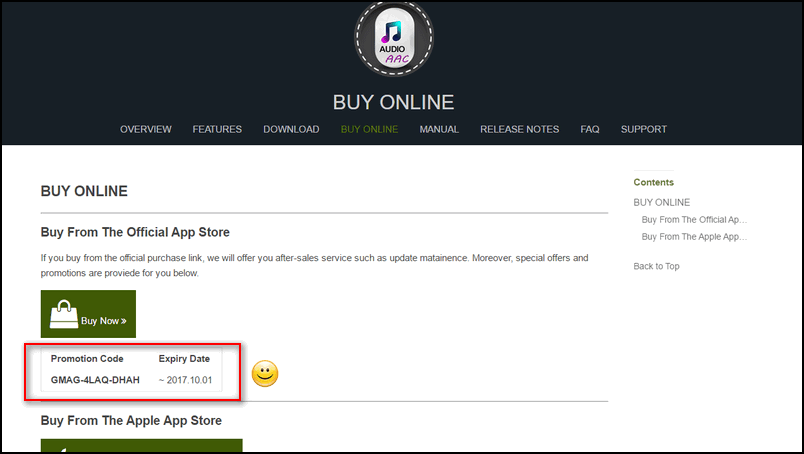
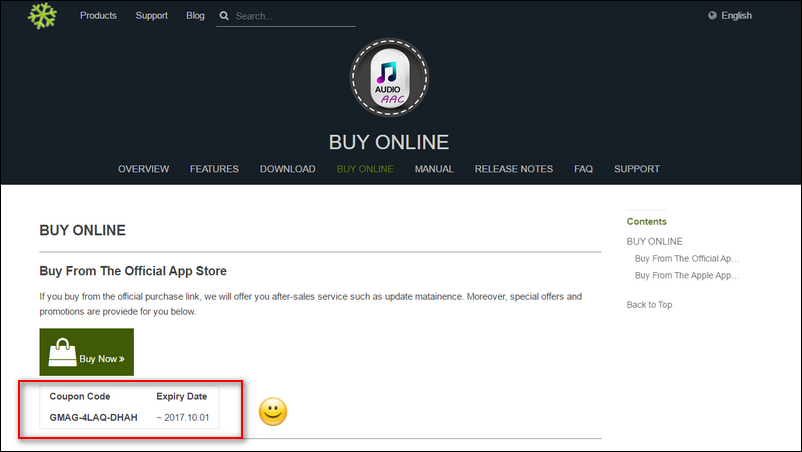
wma pictures

diff --git a/source/products/store/trytowma/docs.md b/source/products/store/trytowma/docs.md
@@ -39,7 +39,7 @@ There are three kind of install package in DOWNLOAD page, you need to choose one
 
 **The trial version** for users is also available in [DOWNLOAD](./download.html), and combined with the install package. You can click and download one of the files. when you open and run the software, a little window will pop up. If you choose to try out, click "continue" button, you can freely try this software three times. If you wanna to buy our product, then click "Buy" button to enter the online store. 
 
-![](.\images\screens\trial version_640x400.png) 
+![](./images/screens/trail%20version1_800x500.png) 
 
 
 If you encounter any problems during or after installing TryToWMA please refer to [Frequently Asked Questions (FAQ)](./faq.html) first.
@@ -49,18 +49,18 @@ If you encounter any problems during or after installing TryToWMA please refer t
 ### **User Guide**:
 This section describes daily use guide to the TryToWMA client. It instructs you how to use the software in details after the installation finished.
  
-1. First of all, you need to open the file and run it, the window of TryToMP3 will pop up in the desktop. As what have mentioned before, if you want to try out this software first, click "continue" to use the trial version, you have three chances to try it freely. If you satisfied with our product,and decided to pay for it, please click the "Buy" button or directly come to our home page and enter the [BUY ONLINE](./buy.html). 
+1. First of all, you need to open the file and run it, the window of TryToWMA will pop up in the desktop. As what have mentioned before, if you want to try out this software first, click "continue" to use the trial version, you have three chances to try it freely. If you satisfied with our product,and decided to pay for it, please click the "Buy" button or directly come to our home page and enter the [BUY ONLINE](./buy.html). 
 <br>
 2. Secondly, in the BUY ONLINE page, there are two optional purchase link for you, that is, you can choose to buy from our **official App store** or the Apple App store. The good news is, we offer a **coupon code** below the purchase link for anyone who willing to buy from the Gmagon official App store. 
 <br>
-![](.\images\screens\coupon_640x374.png)
+![](./images/screens/trytowma_buy%20online_800x450.png)
 <br>
 3. Thirdly, in the Gmagon Online Store, you need to put the product in your cart, fill the Billing Information, and choose your payment information.
 <br>
-![](.\images\screens\coupon code_640x374.png) 
+![](./images/screens/trytowma_online%20store_800x450.png)
 <br>
-4. Finally, after you finished the purchasing process of the product, you can get the **active code** from us. When you run the software, a registered window will pop up, then you need to copy and paste the active code in the **license key** text box, then click "register" button to finish the License Activation. Now, you can feel free to use TryToMP3 in your computer anytime and everywhere.
+4. Finally, after you finished the purchasing process of the product, you can get the **active code** from us. When you run the software, a registered window will pop up, then you need to copy and paste the active code in the **license key** text box, then click "register" button to finish the License Activation. Now, you can feel free to use TryToWMA in your computer anytime and everywhere.
 <br>
-![](.\images\screens\license key_640x374.png)
+![](./images/screens/trytowma_license%20key_800x450.png)
 <br>
-Hope the TryToMP3 will help you enjoy a high-quality listening experience and make your life more convenient than ever. We'd like to receive and answer any question from you, if you are willing to communicate with us in<a href="https://gitter.im/Gmagon/support" target="_blank"> <strong>Support Center</strong> </a> and join our community. We will strive to provide the best services we can offer with our customers. 
+Hope the TryToWMA will help you enjoy a high-quality listening experience and make your life more convenient than ever. We'd like to receive and answer any question from you, if you are willing to communicate with us in<a href="https://gitter.im/Gmagon/support" target="_blank"> <strong>Support Center</strong> </a> and join our community. We will strive to provide the best services we can offer with our customers. 

diff --git a/source/products/store/trytowma/index.md b/source/products/store/trytowma/index.md
@@ -16,25 +16,23 @@ Learn more [about TryToWMA](./features.html).
 <a href="./download.html"><span class="cls-banner-start-link" style="border: 2px solid; border-radius: 25px;"><i class="fa fa-download fa-3x" aria-hidden="true"></i> <span> Download </span></span></a>
 <br>
 
-<!-- ![](./images/screens/s2_953x525.png) -->
-![](./images/screens/s2_664x374_op.png)
+![](./images/screens/trytowma_screen_1_1440x900.png)
 
 
-
+<br>
 ## USE CASES: BUILT FOR YOU
-TryToWMA delivers high-quality WMA format and is designed for every kind of Mac users. WMA fitS Mac devices and most popular media players. Users for MP3-players are able to use WMA to save much more room than MP3 format with similar audio quality. Apple users also can use WMA format freely in their iTunes. Other users are able to convert other formats to WMA file so as to save much room while maintaining unchanged audio quality. 
+TryToWMA delivers high-quality WMA format and is designed for every kind of Mac users. WMA fits Mac devices and most popular media players. Users for MP3-players are able to use WMA to save much more room than MP3 format with similar audio quality. Apple users also can use WMA format freely in their iTunes. Other users are able to convert other formats to WMA file so as to save much room while maintaining unchanged audio quality. 
 
-1. **MP3-player Users**: Most users for tiny, portable MP3-players are likely to face a dilemma that the storage space is so limited that you cannot store enough audio files as you wish. As a conceived competitor to the popular MP3, WMA enjoys its superiority. For WMA could produce files that were half the size of equivalent-quality MP3 files, it is also praised as "near CD-quality" audio. In short, WMA was intended to address perceived deficiencies in the MP3 standard. So users can use smaller WMA file to replace MP3 file.
+1. **MP3-player Users**: Most users for tiny, portable MP3-players are likely to face a dilemma that the storage space is so limited that you cannot store enough audio files as you wish. As a conceived competitor to the popular MP3, WMA enjoys its superiority. For WMA could produce files that were half the size of equivalent-quality MP3 files, it is also praised as "near CD-quality" audio. In short, WMA was intended to address perceived deficiencies in the MP3 standard. So users can use smaller WMA files to replace MP3 files.
 <br>
-![](./images/screens/Listening-to-music.small_-664x374.jpg)
+![](./images/screens/trytowma_mp3_850x480.jpg)
 <br>
-
 1. **Apple Users**: Though WMA is a proprietary technology that is designed by Microsoft and forms part of the Windows Media framework, it can also be used in Apple devices. Because iTunes of Apple has been supported WMA for a long time, and makes it as popular as MP3 format. So Apple devices including iPhone, iPad, iPod, and Macbook all support WMA file and Apple users can feel free to convert other formats to WMA format.
 <br>
-![](./images/screens/movie_664x374.png)
+![](./images/screens/trytowma_apple_850x480.jpg)
 <br>
 
 1. **Network Streaming and Mobile Devices**: Audio files that are produced by WMA account for half the size of MP3 at the premise of equivalent audio quality. It means that the number of stored audio files doubled with the same storage space, and it will not damage the audio quality. Therefore, WMA files is suitable for network media players and mobile devices. For example, ALLPlayer, VLC media player, Media Player Classic, MPlayer, RealPlayer, Winamp Zune Software, etc. <br>
-<img src='./images/screens/A-Voice.jpg' style='width: 664px'>
 <br>
-
+![](./images/screens/trytowma_network_850x480.png)
+<br>

diff --git a/source/products/store/trytoaac/docs.md b/source/products/store/trytoaac/docs.md
@@ -43,7 +43,7 @@ There are three kind of install package in DOWNLOAD page, you need to choose one
 
  You can click and download one of the files. when you open and run the software, a little window will pop up. If you choose to try out, click "continue" button, you can freely try this software three times. If you wanna to buy our product, then click "Buy" button to enter the online store. 
 
-![](images/screens/trail%20version_800x500.png) 
+![](./images/screens/trytoaac_trail%20version_800x500.png) 
 
 If you encounter any problems during or after installing TryToAAC please refer to [Frequently Asked Questions (FAQ)](./faq.html) first.
 
@@ -61,7 +61,7 @@ This section describes daily use guide to the TryToAAC client. It instructs you 
 <br>
 ![](.\images\screens\coupon_800x450.png) 
 <br>
-4. Finally, after you finished the purchasing process of the product, you can get the **active code** from us. When you run the softwdare, a registered window will pop up, then you need to copy and paste the active code in the **license key** text box, then click "register" button to finish the License Activation.
+4. Finally, after you finished the purchasing process of the product, you can get the **active code** from us. When you run the software, a registered window will pop up, then you need to copy and paste the active code in the **license key** text box, then click "register" button to finish the License Activation.
 <br>
 ![](.\images\screens\license key_800x450.png)  
 <br>

diff --git a/source/products/store/trytowma/buy.md b/source/products/store/trytowma/buy.md
@@ -1,5 +1,5 @@
 layout: app
-title: Buy | TryToAAC
+title: Buy | TryToWMA
 subtitle: BUY ONLINE
 comments: false
 current: buy
@@ -11,10 +11,10 @@ current: buy
 ### Buy From The Official App Store
 If you buy from the official purchase link, we will offer you after-sales service such as update matainence. Moreover, special offers and promotions are proviede for you below.  
 
-<a href="https://shopper.mycommerce.com/checkout/cart/add/55399-24" target="_blank"><span class="cls-banner-start-link"> <i class="fa fa-shopping-bag fa-3x" aria-hidden="true"></i> <span> Buy Now </span> <i class="fa fa-angle-double-right"></i> </span></a>
+<a href="https://shopper.mycommerce.com/checkout/cart/add/55399-30" target="_blank"><span class="cls-banner-start-link"> <i class="fa fa-shopping-bag fa-3x" aria-hidden="true"></i> <span> Buy Now </span> <i class="fa fa-angle-double-right"></i> </span></a>
 
 
-Promotion Code | Expiry Date
+Coupon Code | Expiry Date
 ------ | -------
 **GMAG-4LAQ-DHAH** | ~ 2017.10.01
 
